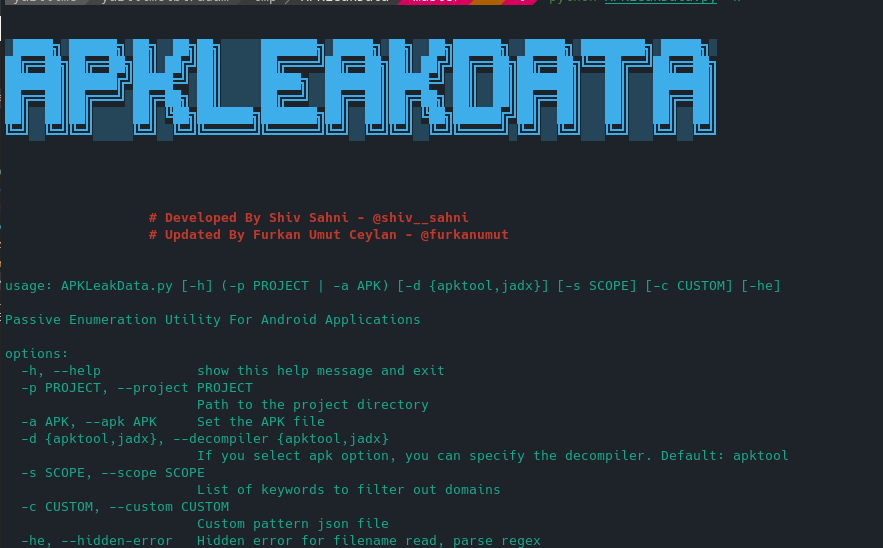
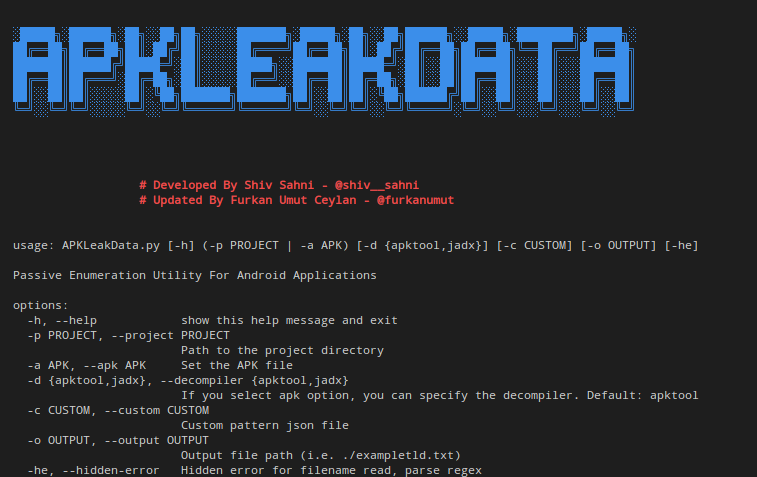
added: run command if pattern is found

diff --git a/APKLeakData.py b/APKLeakData.py
@@ -9,13 +9,14 @@ from src.ApkDecompiler import ApkDecompiler as Decompiler
 from src.ColorizedPrint import ColorizedPrint as print_with_color
 
 root_dir=os.getcwd()+"/extractedApk/"
-apk_path=""
-project_path=""
-scope_mode=False
 pattern_file="./src/regex.json"
-pattern_list=dict()
+scope_mode=False
+project_path=""
+apk_path=""
 
+found_patterns=dict()
 scope_list=dict()
+execute_command_list = dict() #if found pattern and have execute command then execute it
 
 regex_patterns =[]
 
@@ -36,15 +37,15 @@ def print_list(lst):
         print_with_color(entry, "PLAIN_WS")
 
 def add_pattern(name, value):
-    global pattern_list
+    global found_patterns
 
     name = name.capitalize()
-    if name in pattern_list:
-        if value in pattern_list[name]:
+    if name in found_patterns:
+        if value in found_patterns[name]:
             return
-        pattern_list[name].append(value)
+        found_patterns[name].append(value)
     else:
-        pattern_list[name]=[value]
+        found_patterns[name]=[value]
 
 def pattern_search(pattern, name, line):
     try:
@@ -67,18 +68,21 @@ def pattern_file_to_list(file_name):
         print_with_color("E: Error json parse in pattern file: "+file_name, "ERROR")
         exit(1)
 
-def pattern_scope_check():
+def pattern_configuration():
+    global regex_patterns
     global scope_list
     global scope_mode
-    global regex_patterns
+    global execute_command_list
 
     for pattern_name in regex_patterns:
         if isinstance(regex_patterns[pattern_name], dict) :
             if "scope" in regex_patterns[pattern_name].keys():
                 scope_mode=True
                 scope_list[pattern_name] = regex_patterns[pattern_name]['scope']
+            if "command" in regex_patterns[pattern_name].keys():
+                execute_command_list[pattern_name] = regex_patterns[pattern_name]['command']
             regex_patterns[pattern_name] = regex_patterns[pattern_name]['regex']
-    
+
 def perform_recon():
     global regex_patterns
     without_file_extensions=['.png', '.webp', '.jpg', '.gif', '.otf', '.ttf']
@@ -123,19 +127,33 @@ def check_result(name, result):
         print_list(result)
                 
 def display_results():
-    global pattern_list
+    global found_patterns
 
-    for pattern in pattern_list:
-            check_result(pattern, pattern_list[pattern])
-    if pattern_list=={}:
+    for pattern in found_patterns:
+            check_result(pattern, found_patterns[pattern])
+    if found_patterns=={}:
         print_with_color("No secrets found", "INSECURE")
 
     print("")
 
+def execute_commands():
+    global execute_command_list
+    global found_patterns
+    print_with_color("I: Executing commands", "INFO_WS")
+    for name, command in execute_command_list.items():
+        if name not in found_patterns:
+            continue
+        for found_item in found_patterns[name]:
+            if command['replace_item']:
+                found_item = found_item.replace(command['replace_item']['old'], command['replace_item']['new'])
+            execute = command['execute'].replace("{}", found_item)
+            os.system(execute)
+    print_with_color("I: Commands executed", "INFO_WS")
+
 def save_results(file_name):
-    global pattern_list
+    global found_patterns
     
-    for name, result in pattern_list.items():
+    for name, result in found_patterns.items():
         if (len(result)==0):
             continue
         with open(file_name, mode='a') as file:
@@ -202,12 +220,15 @@ if (args.custom):
 else:
     is_valid_path("Standart Pattern",pattern_file)
     pattern_file_to_list(pattern_file)
-pattern_scope_check()
 
+pattern_configuration()
 output = args.output
+
 try:
     perform_recon()
     display_results()
+    execute_commands()
+
     if output:
         save_results(output)
 except KeyboardInterrupt:

diff --git a/README.md b/README.md
@@ -5,6 +5,15 @@
 
 ![](image/apkleakdata_info.png)
 
+## New Feature
+- It now works with Python 3.
+- "argparse" was used in the argument section, so less if-else was used, it was clean code for arg parse.
+- Repeated codes were organized for Thread. Function was used for repetitive codes.
+- Custom Pattern has been added for the user to search.
+- All regex patterns can be scoped. Read how to make custom pattern file.
+- When it finds keys, you can run a command to test them.
+
+
 ## Usage
 The utility takes APK file as an input, performs reverse engineering and gathers information from the decompiled binary. As of now, the script provides the following information by searching the decompiled code:
 
@@ -32,29 +41,48 @@ The utility takes APK file as an input, performs reverse engineering and gathers
 | -he | Hidden File reading error(binary file) | pyhon APKLeakData.py -p ~/decompile-apk-path -he |
 | -o | Output file path/name | pyhon APKLeakData.py -p ~/decompile-apk-path -o ~/leak-data.txt |
 
-## Custom Pattern File
+## How to make Custom Pattern File
 The file must be in json format. You can use multiple patterns in one value. 
 
 ```json
 {
     // EXAMPLE
     "Pattern Name for list name": "regex parameter",
-	"Pattern with Scope":{
+    "Pattern with Scope":{
         "scope": "example.com,example2.com,cdn,other.com",
         "regex": "regex parameter"
     },
-
+    "Pattern with Scope and Commands":{
+        "scope": "example.com,example2.com,cdn,other.com",
+        "regex": "regex parameter",
+        "command": {
+            "execute": "echo '{}' >> domains.txt",
+            "replace_item":{
+                "old": "'",
+                "new": "\\'"
+           }
+        }
+    },
+    ====================================================================
     "Multiple Pattern": [
         "regex",
         "regex2"
     ],
-    "Multiple Pattern with Scope":{
+    "Multiple Pattern with Scope and Command":{
         "scope": "example.com,example2.com,cdn,other.com",
         "regex": [
             "regex",
             "regex2"
         ],
+       "command": {
+            "execute": "echo '{}' >> domains.txt",
+            "replace_item":{
+                "old": "'",
+                "new": "\\'"
+           }
+        }
     },
+    ====================================================================
 
     // USAGE:
     "Google_API_Key": "AIza[0-9A-Za-z\\-_]{35}",
@@ -63,7 +91,7 @@ The file must be in json format. You can use multiple patterns in one value.
 		"[a-z0-9.-]+\\.firebaseapp\\.com"
 	],
     "Url Find": {
-        "scope": "domain.tld"
+        "scope": "domain.tld",
         "regex": [
             "http[s]?://(?:[a-zA-Z]|[0-9]|[$-_@.&+]|[!*\\(\\),]|(?:%[0-9a-fA-F][0-9a-fA-F]))+"
             ]
@@ -74,14 +102,29 @@ If you want a prepared pattern file, you can use the custom_search.json file.
 
 The larger the file, the longer it will take. You can set yourself a json which can be critical information for quick scan.
 
-## New Feature
-- It now works with Python 3.
-- "argparse" was used in the argument section, so less if-else was used, it was clean code for arg parse.
-- Repeated codes were organized for Thread. Function was used for repetitive codes.
-- Custom Pattern has been added for the user to search.
+## How to run command to test keys
+Testing the data we find from the APK file spends a lot of time. After finding the data, I coded the command operation because it was necessary to test the data.
 
+```
+{
+    "Url": {
+        "regex": ["http[s]?://(?:[a-zA-Z]|[0-9]|[$-_@.&+]|[!*\\(\\),]|(?:%[0-9a-fA-F][0-9a-fA-F]))+"],
+	    "command": {
+            "execute": "echo '{}' >> domains.txt",
+            "replace_item":{
+                "old": "'",
+                "new": "\\'"
+           }
+        }
+    }
+}
+```
 
-## What I plan to do
-- [X] Now we can only use the decompile project with APKTOOL. But I want to add it from the APK file and analyze it. (Now use apktool or jadx)
-- [X] Save the output to a file.
-- Allow the thread limit from the user. In this way, I think it will work faster by increasing the thread limit.
+| Key  | Description  | Example | Required  |
+|---|---|---|---|
+| execute  | If you find an api key, which command you want to run. Api Key should be specified as {}.  | you_api_test_script.py --api {}  | Yes | 
+| replace_item |  Some api keys and the parameters you are looking for may be a syntax error to run a command. You can use Escape characters using this. |  |  No |
+| old  | Specify the character that gives the syntax error.  |  ' |  If use replace_item: yes |
+| new | What do you want to change the character that says Old value?  |  \\\\' |  If use replace_item: yes |
+
+I recommend you to browse [Keyhacks](https://github.com/streaak/keyhacks) to create your own api test script.
